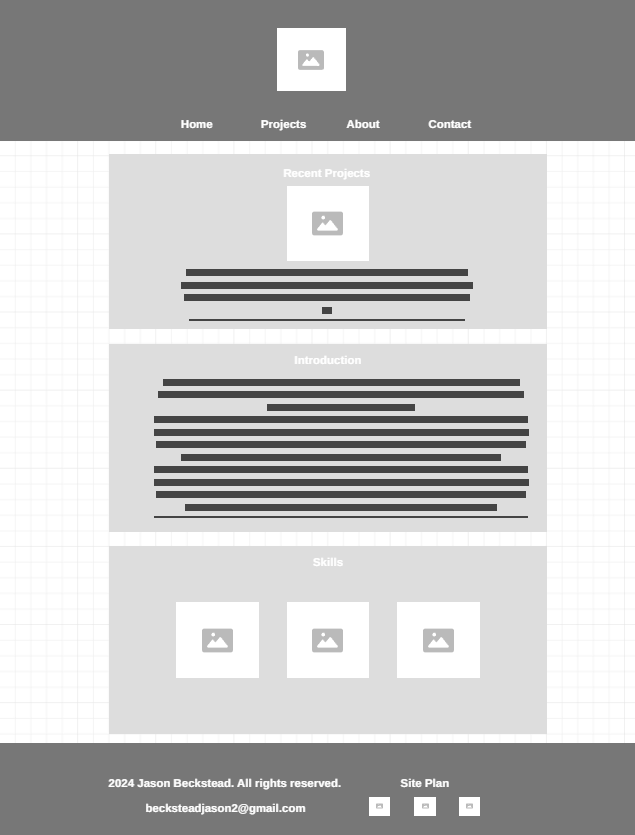
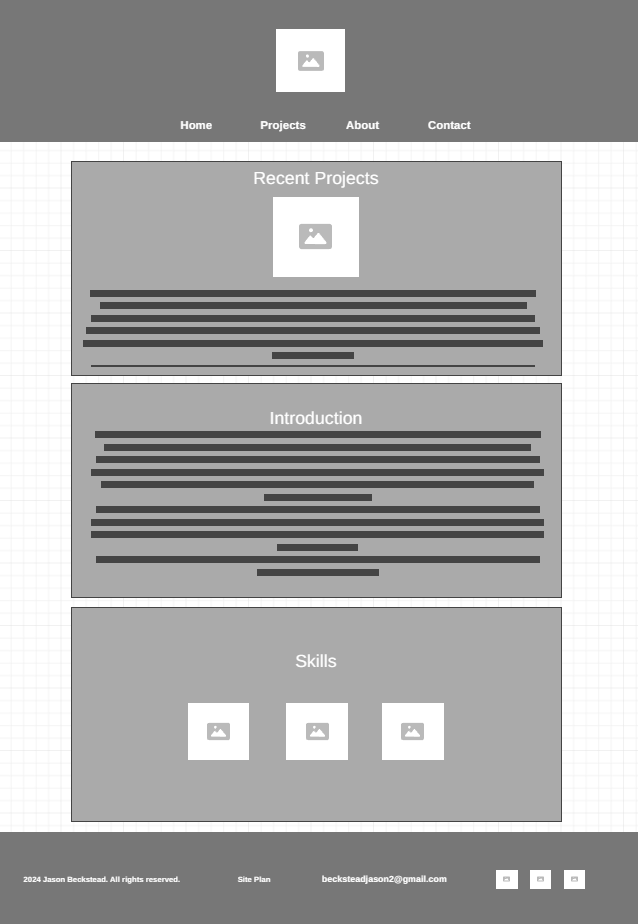
portfoliosite updated

diff --git a/portfoliosite/styles/portfolio.css b/portfoliosite/styles/portfolio.css
@@ -18,7 +18,7 @@
 /* Body styles */
 body {
   background-color: #ffffff;
-  font-size: 1em;
+  font-size: 18px;
   font-family: var(--paragraph-font);
   width: 100%;
   margin: 0;
@@ -54,7 +54,7 @@ p {
 .logo {
   display: block;
   max-width: 175px;
-  margin: 1rem auto;
+  margin: 10%;
 }
 
 .logo-link {
@@ -65,7 +65,7 @@ p {
 /* Header styles */
 .header {
   background-color: #0E1029;
-  padding: 10px;
+  padding: 5px;
   box-shadow: 0 2px 4px rgba(0, 0, 0, 0.1);
   display: flex;
   flex-direction: column;
@@ -215,10 +215,17 @@ p {
   transform: translateY(-5px);
 }
 
-p,
-.work-link,
-.skill-name {
+.text p {
   text-align: center;
+  margin-top: 25%;
+  margin-bottom: 5%;
+  line-height: 1.6;
+}
+
+.work-link,
+.skill-name, .about-text {
+  text-align: center;
+  line-height: 1.6;
 }
 
 .work-link img,
@@ -375,7 +382,7 @@ p,
   margin: auto;
   text-align: center;
   padding: 20px;
-  margin-top: 5%;
+  margin-bottom: 5%;
 }
 
 .card img {
@@ -392,6 +399,8 @@ p,
   max-width: 800px;
   margin: 0 auto;
   color: #1f2041;
+  margin-top: 3%;
+  margin-bottom: 3%;
 }
 
 .button {
@@ -399,7 +408,7 @@ p,
   border: none;
   outline: 0;
   display: inline-block;
-  padding: 8px;
+  padding: 2%;
   color: white;
   background-color: #1f2041;
   text-align: center;
@@ -417,7 +426,7 @@ p,
   flex-wrap: wrap;
   align-items: center;
   justify-content: space-around;
-  padding: 4rem;
+  padding: 7%;
   background-color: #0E1029;
   color: #e7ecef;
   margin: 0 auto;
@@ -479,8 +488,6 @@ p,
   display: flex;
   justify-content: center;
   align-items: center;
-  margin-top: 1rem;
-  gap: 1rem;
   list-style: none;
 }
 
@@ -502,80 +509,85 @@ p,
   transform: scale(1.2);
 }
 
-/* Media queries for responsive design */
-@media (max-width: 768px) {
+@media (max-width: 1024px) {
   body {
     font-size: 0.9rem;
   }
-
+  
   /* Logo styles */
   .logo {
     max-width: 150px;
   }
-
+  
   /* Header styles */
   .header {
     padding: 5px;
   }
-
+  
   /* Navigation styles */
   .navbar ul {
     flex-direction: column;
     gap: 10px;
   }
-
+  
   .navbar li {
     margin: 5px 0;
   }
-
+  
   .navbar a {
     padding: 10px;
     font-size: 1.2rem;
   }
-
+  
   .main-content {
     grid-template-columns: repeat(3, 1fr);
   }
-
+  
   main {
     margin-bottom: 15%;
   }
-
+  
   .slideshow-container {
     margin-top: 5%;
     margin-bottom: -10%;
-}
-
-.image-container {
+  }
+  
+  .image-container {
     height: auto;
-}
+  }
+  
+  .project-heading {
+    font-size: 3rem;
+  }
 
-.project-heading {
-  font-size: 3rem;
-}
-
-.prev, .next {
+  .text p {
+    margin-top: 1rem;
+    line-height: 1.6;
+    font-size: 90%;
+  }
+  
+  .prev, .next {
     font-size: 16px;
-}
-
-.prev {
+  }
+  
+  .prev {
     left: -2px;
-}
-
-.next {
+  }
+  
+  .next {
     right: -2px;
-}
-
-.text {
+  }
+  
+  .text {
     font-size: 90%;
     bottom: 1%;
     padding: 1% 5%;
     position: absolute;
     width: 50%;
     border-radius: 5px;
-}
-
-.numbertext {
+  }
+  
+  .numbertext {
     padding: 10px;
     font-size: 14px;
     color: #1f2041;
@@ -585,39 +597,38 @@ p,
     bottom: -33px;
     left: 50%;
     transform: translateX(-50%);
-}
-
+  }
+  
   .logo {
     max-width: 120px;
   }
-
-.work-title,
-.about-title,
-.contact-title {
-    font-size: 1.2rem;
-}
-
-.skill-name {
-  font-size: 0.9rem;
-}
-
-.work-link img,
-.skills-item img {
-  max-width: 75%;
-}
-
-.title {
-  font-size: 16px; /* Reduced font size on small screens */
-}
-
-button {
-  font-size: 16px; /* Reduced button font size on small screens */
-}
   
-.footer-container {
-  flex-direction: column;
-  align-items: center;
-  gap: 1rem;
-}
-
+  .work-title,
+  .about-title,
+  .contact-title {
+    font-size: 1.2rem;
+  }
+  
+  .skill-name {
+    font-size: 0.9rem;
+  }
+  
+  .work-link img,
+  .skills-item img {
+    max-width: 75%;
+  }
+  
+  .title {
+    font-size: 16px; 
+  }
+  
+  button {
+    font-size: 16px;
+  }
+  
+  .footer-container {
+    flex-direction: column;
+    align-items: center;
+    gap: 1rem;
+  }
 }

diff --git a/portfoliosite/site-plan.html b/portfoliosite/site-plan.html
@@ -240,7 +240,7 @@
       <img src="images/projects-wireframe.png" alt="projects wireframe">
 
       <h3>About Page</h3>
-      <img src="images/aboutme-wireframe.png" alt="about me wireframe">
+      <img src="images/about-wireframe.png" alt="about me wireframe">
 
       <h3>Contact Page</h3>
       <img src="images/contact-wireframe.png" alt="contact wireframe">
